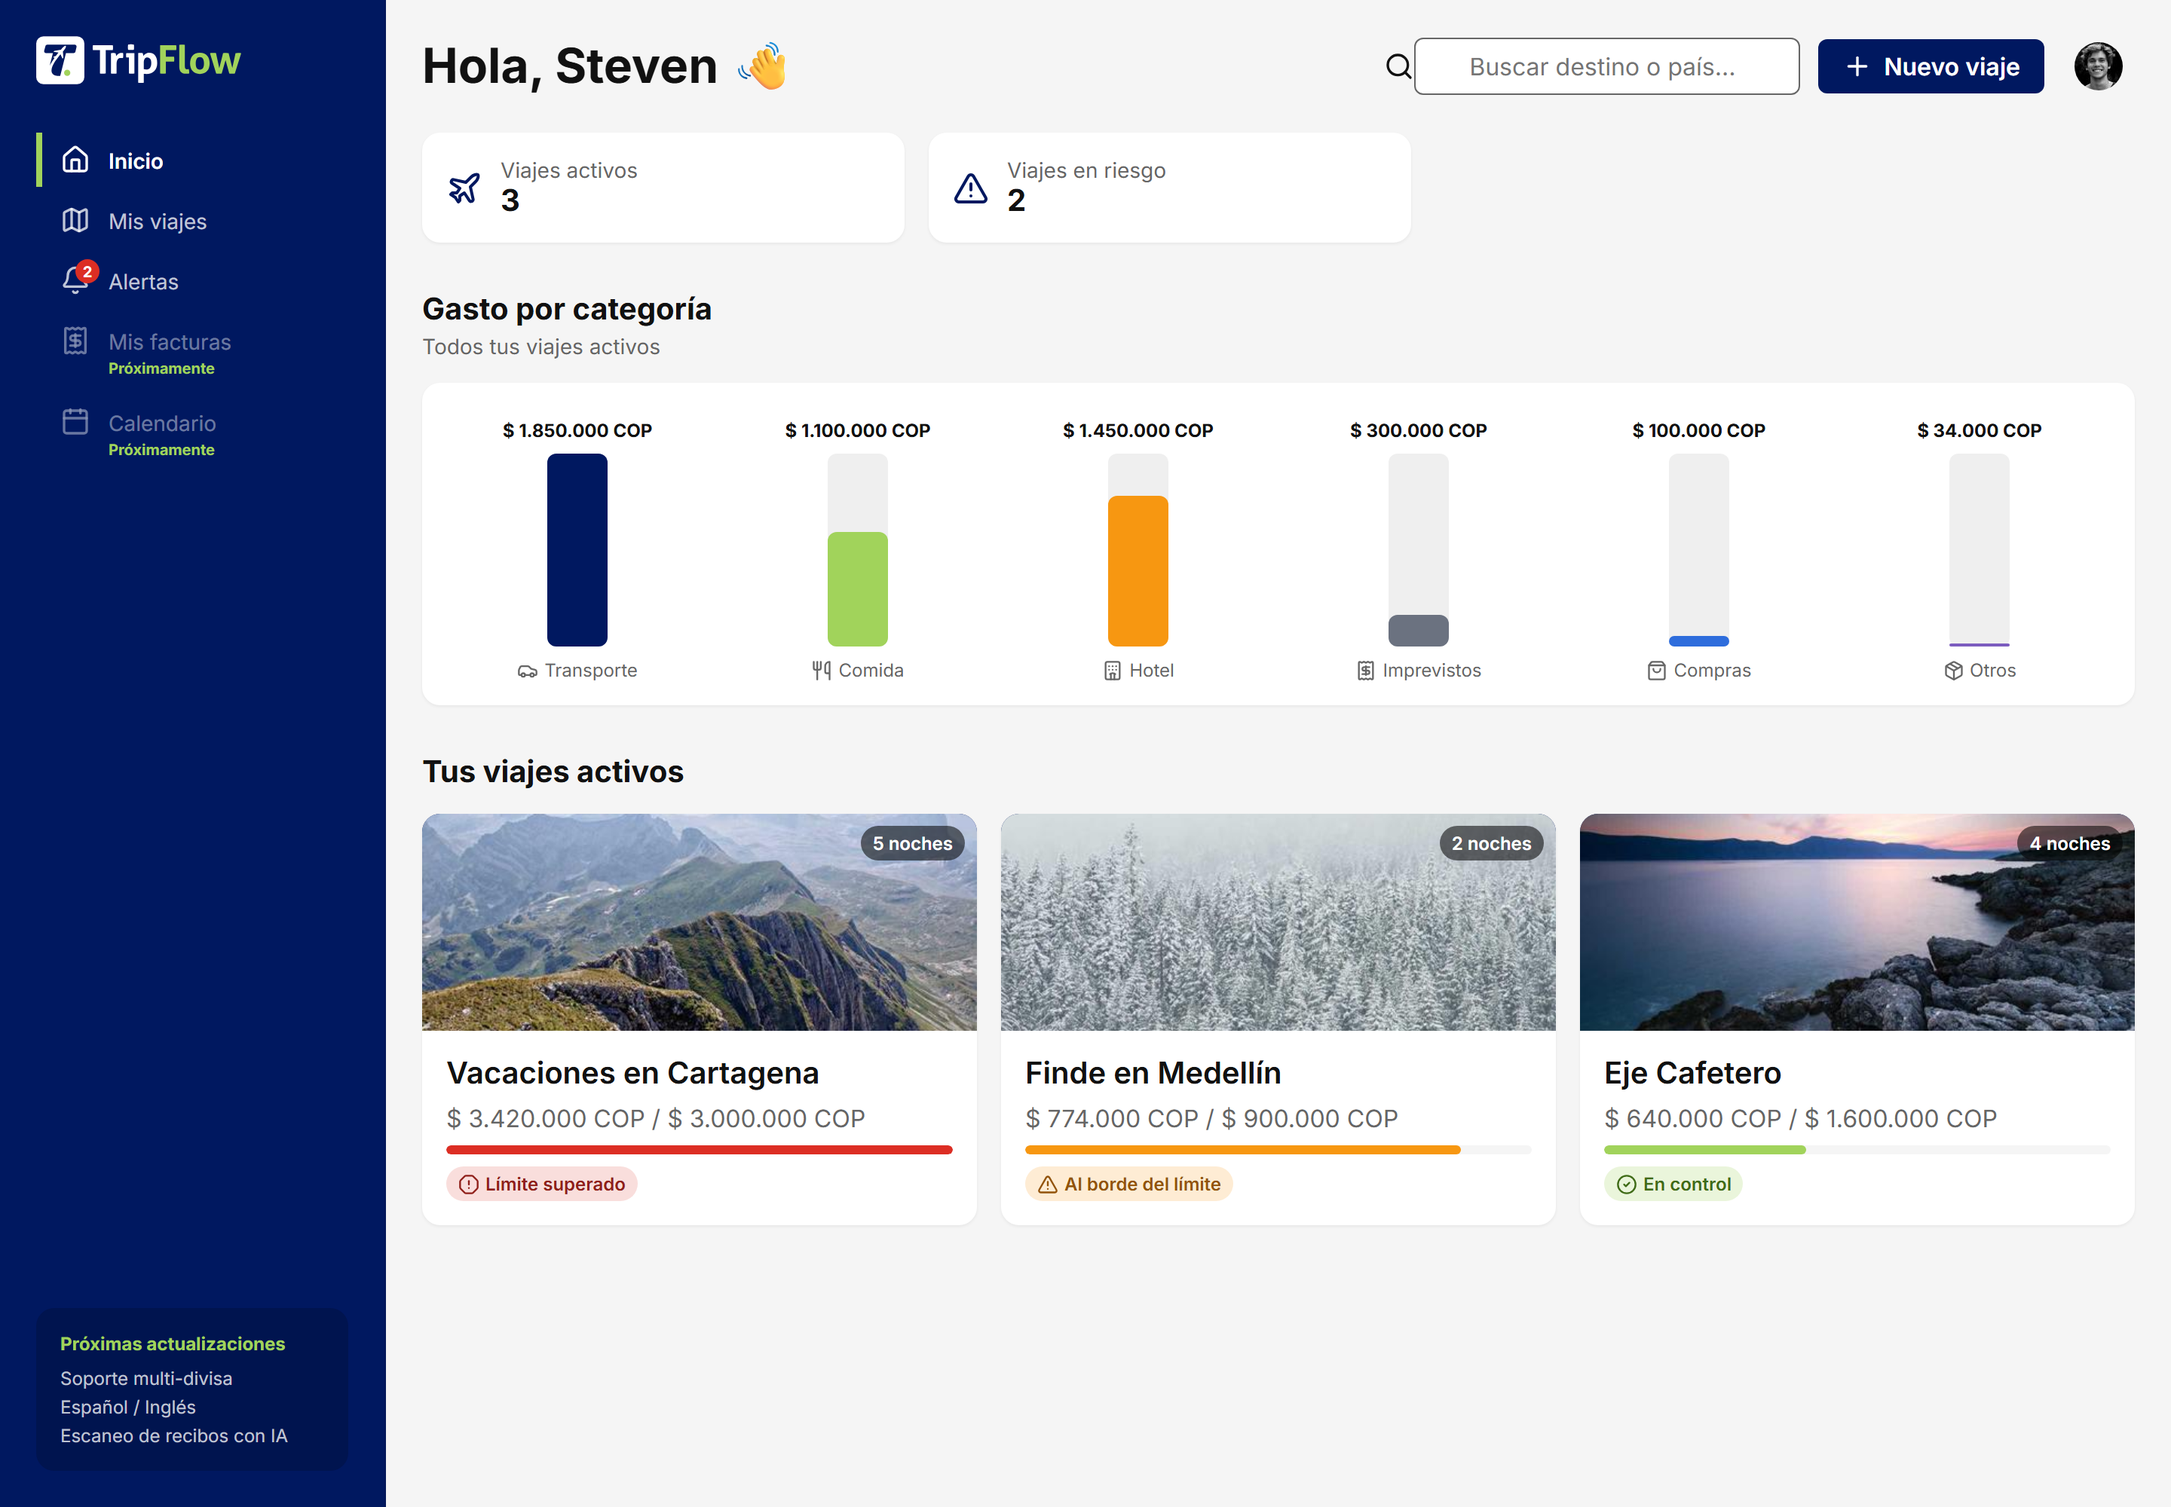
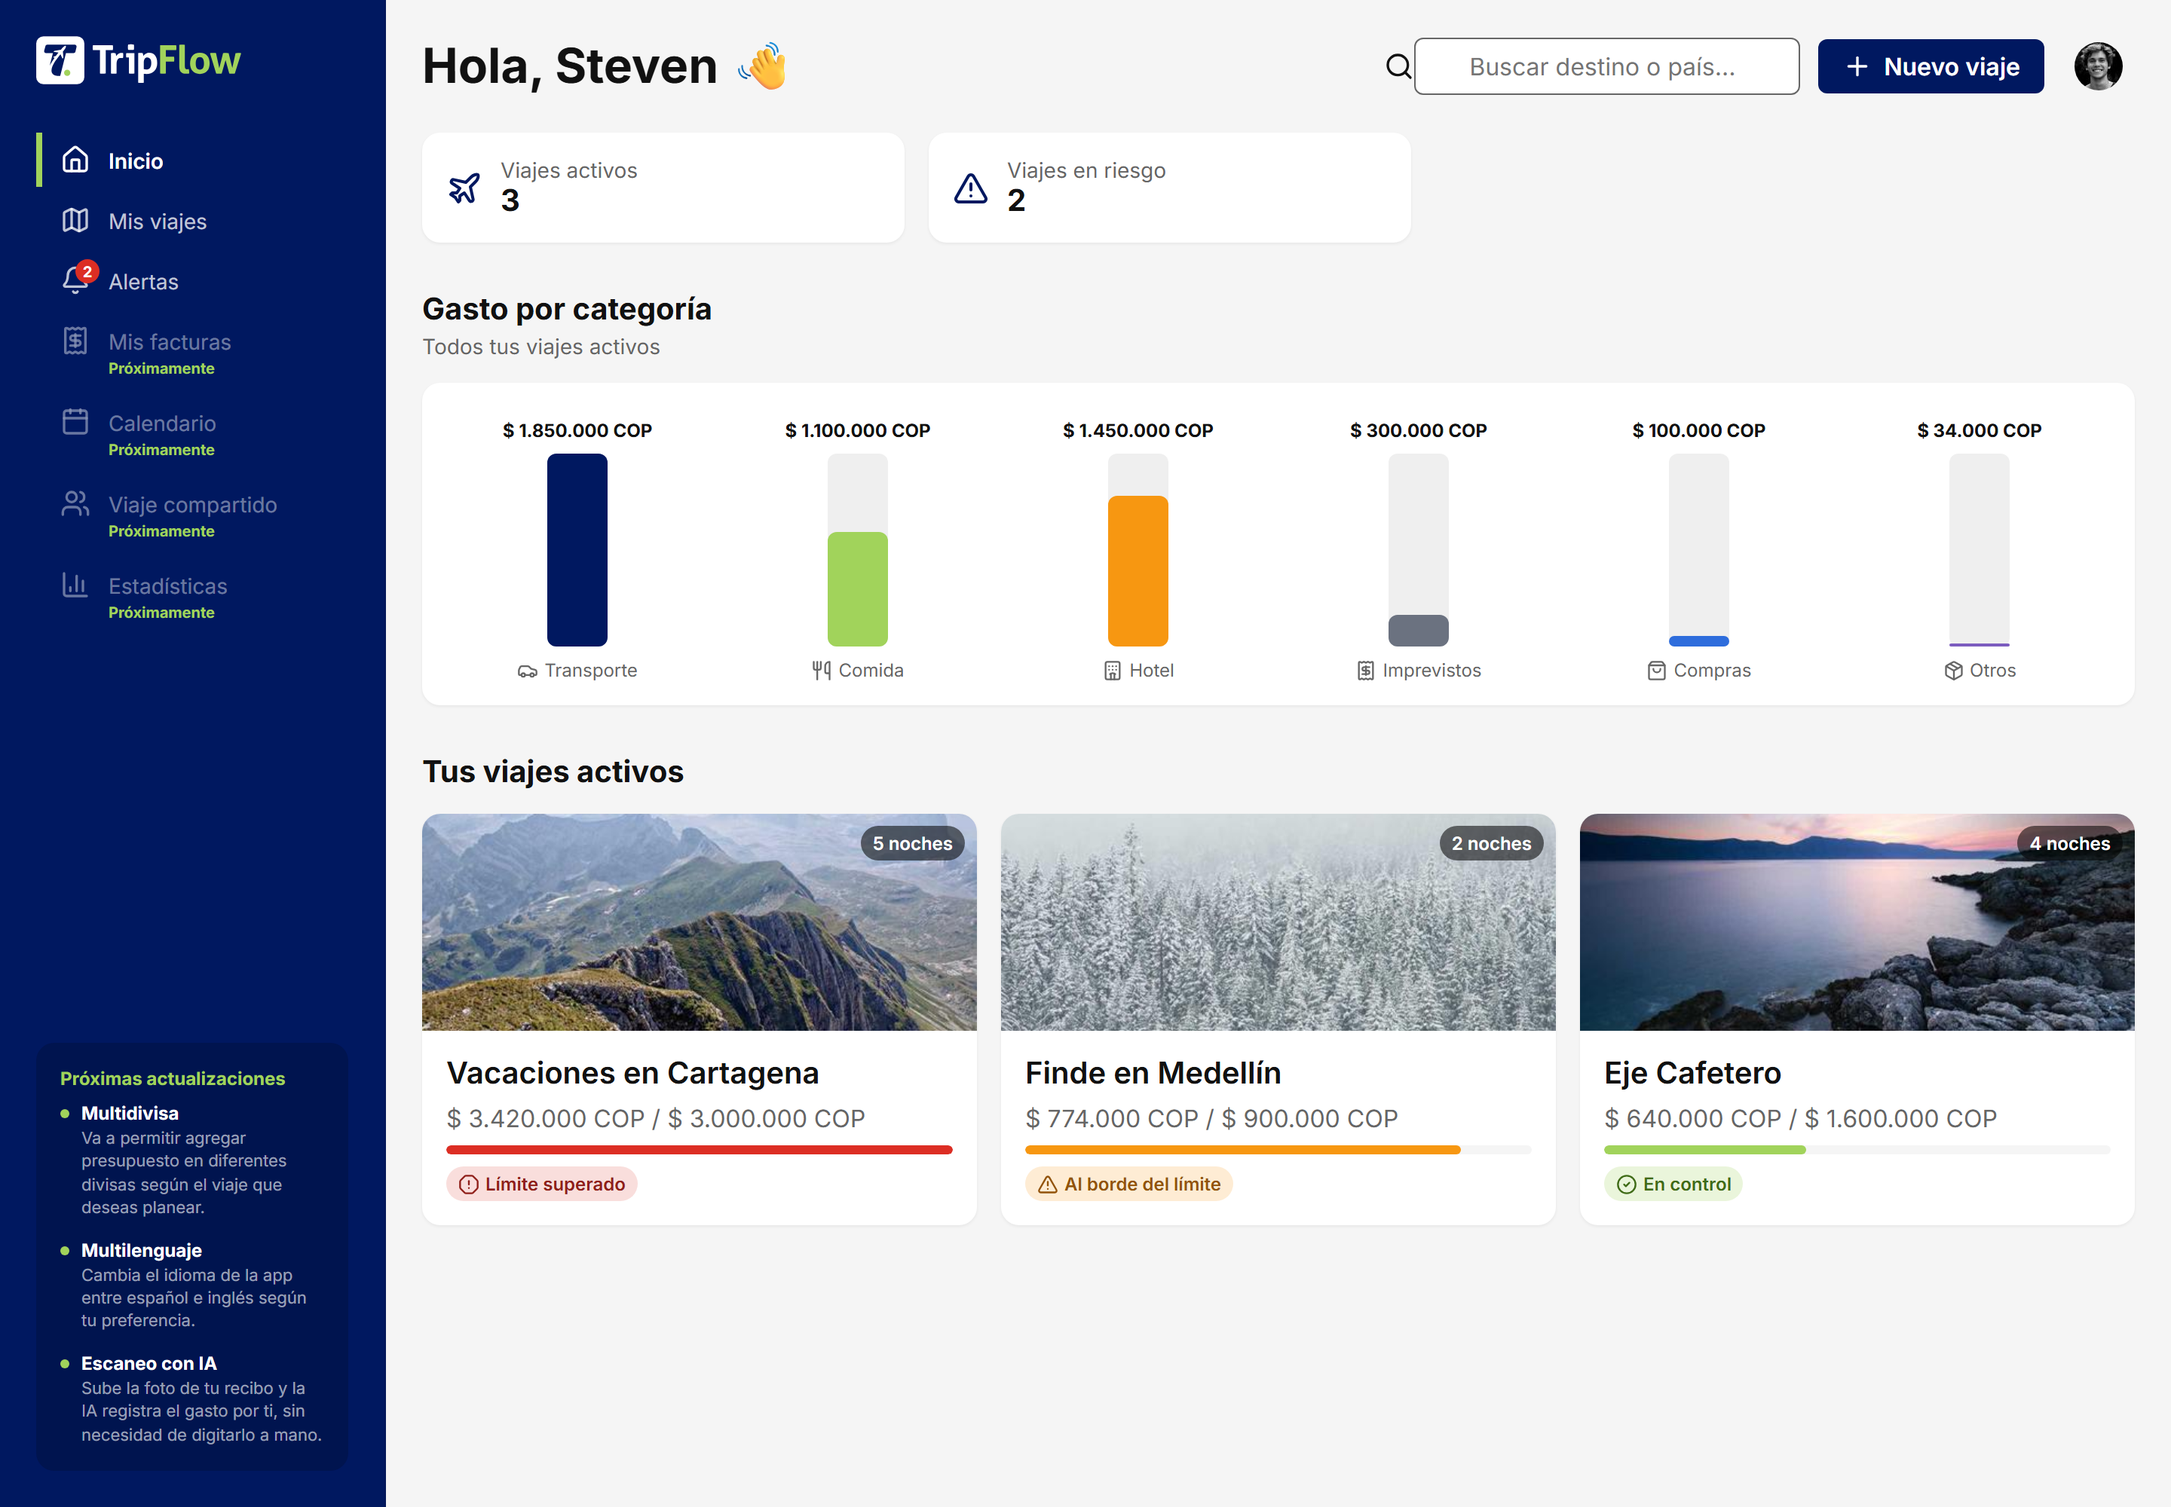
fix(landing): rediseña Como funciona con imagen+badge circular y actualiza capturas desactualizadas
Rediseño de "Como funciona": patron imagen+badge circular superpuesto
(foto arriba con esquinas redondeadas al radio de la tarjeta, circulo
navy con el numero del paso mordiendo el borde inferior de la foto,
titulo+descripcion centrados debajo) en vez de solo numero+texto.
Encabezado de la seccion centrado (unica seccion de la landing con
este tratamiento, a proposito). 3 capturas nuevas y mas enfocadas que
las de "Funcionalidades" (campo de Nuevo viaje, modal Agregar gasto,
los 3 badges del semaforo en fila).

Actualiza ademas las 9 imagenes de src/assets/landing/: el harness
Playwright que las genera copiaba el markup del sidebar a mano, y
quedo desactualizado cuando sidebar.js gano 2 items "Proximamente"
mas y la tarjeta de actualizaciones paso a titulo+descripcion (tareas
previas de esta sesion). Se reemplaza esa copia por el componente
real renderSidebar() (verificado seguro de importar sin sesion --
firebase.js/store.js no hacen red ni tiran sin datos), asi que esto
no puede volver a desactualizarse de la misma forma.

2 bugs propios encontrados y corregidos en el camino: el recorte de
Alertas cortaba la nav a la mitad (el sidebar real tiene height:100dvh,
que en Alertas -- poco contenido -- inflaba el alto muy por encima del
contenido real); y las imagenes nuevas de "Como funciona" con
object-fit:cover recortaban texto real por ser mucho mas anchas que
el slot de la tarjeta -- object-fit:contain en su lugar.
[…]

Changed region(s): [[0.0312, 0.713, 0.1562, 0.961], [0.0312, 0.31, 0.125, 0.434]]

diff --git a/src/styles/landing.css b/src/styles/landing.css
@@ -367,10 +367,17 @@
 }
 
 /* ---------- Cómo funciona ---------- */
-/* Mismo tratamiento de tarjeta que .roadmap-item/.feature-snippet
-   (radius-md, shadow-sm, borde sutil) — el número reemplaza al ícono
-   genérico de .feature-card-icon porque acá el número SÍ es
-   información real (paso 1/2/3 en orden), no decoración. */
+/* Único encabezado de sección centrado en toda la landing (a
+   diferencia de "Funcionalidades"/"Lo que viene", alineados a la
+   izquierda) — pedido explícito, acotado a esta sección con el
+   selector de arriba en vez de tocar .landing-section-header en
+   general. */
+#como-funciona .landing-section-header {
+  margin-left: auto;
+  margin-right: auto;
+  text-align: center;
+}
+
 .steps-grid {
   list-style: none;
   margin: 0;
@@ -380,38 +387,84 @@
   gap: var(--space-6);
 }
 
+/* Patrón imagen+badge superpuesto (no el de .feature-snippet/
+   .roadmap-item de arriba): la imagen ocupa el ancho completo arriba,
+   el número reemplaza al ícono/foto de la referencia porque acá SÍ es
+   información real (paso 1/2/3 en orden), no decoración.
+   overflow:hidden en la tarjeta es lo que recorta las esquinas
+   superiores de la imagen al mismo radio de la tarjeta — el badge no
+   se ve afectado porque nunca sale de los límites de la tarjeta, solo
+   se superpone al límite interno imagen/cuerpo. */
 .step-card {
   display: flex;
   flex-direction: column;
-  gap: var(--space-3);
-  padding: var(--space-5);
+  align-items: center;
+  overflow: hidden;
   border-radius: var(--radius-md);
   background: var(--color-surface);
   box-shadow: var(--shadow-sm);
   border: 1px solid rgba(0, 0, 0, 0.06);
+  text-align: center;
 }
 
+.step-card-image {
+  width: 100%;
+  height: 9rem;
+  display: flex;
+  align-items: center;
+  justify-content: center;
+  background: var(--color-bg);
+}
+
+/* contain, no cover: las 3 capturas son recortes de ancho muy distinto
+   entre sí (un campo de formulario angosto vs. 3 badges en fila) — con
+   cover, cualquiera bastante más ancha que el slot 2.6:1 terminaba con
+   el texto cortado a los costados (una etiqueta o un badge entero por
+   fuera del recorte). Con contain nunca se pierde contenido, el fondo
+   (--color-bg) de arriba hace de marco cuando la imagen no llena el
+   alto completo. */
+.step-card-image img {
+  display: block;
+  max-width: 100%;
+  max-height: 100%;
+  object-fit: contain;
+}
+
+/* margin-top negativo = la mitad de su propio alto: "muerde" el borde
+   inferior de la imagen, mitad afuera (sobre la imagen) mitad adentro
+   (sobre el cuerpo blanco) — mismo efecto que un avatar superpuesto.
+   El aro blanco (border) lo despega visualmente de la imagen de atrás. */
 .step-card-number {
+  position: relative;
+  z-index: 1;
+  flex-shrink: 0;
   display: inline-flex;
   align-items: center;
   justify-content: center;
-  width: 2.5rem;
-  height: 2.5rem;
+  width: 2.75rem;
+  height: 2.75rem;
+  margin-top: -1.375rem;
+  border: 3px solid var(--color-surface);
   border-radius: var(--radius-full);
   background: var(--color-primary);
   color: var(--color-surface);
   font-weight: 800;
-  font-size: var(--text-base);
+  font-size: var(--text-lg);
   font-variant-numeric: tabular-nums;
+  box-shadow: var(--shadow-sm);
 }
 
-.step-card h3 {
-  margin: 0;
+.step-card-body {
+  padding: var(--space-2) var(--space-5) var(--space-5);
+}
+
+.step-card-body h3 {
+  margin: var(--space-2) 0;
   font-size: var(--text-lg);
   font-weight: 700;
 }
 
-.step-card p {
+.step-card-body p {
   margin: 0;
   color: var(--color-text-muted);
   line-height: 1.5;

diff --git a/src/pages/landing.js b/src/pages/landing.js
@@ -22,6 +22,9 @@ import alertasImg from "../assets/landing/alertas.png";
 import nuevoViajeImg from "../assets/landing/nuevo-viaje.png";
 import whatsappImg from "../assets/landing/whatsapp.png";
 import calendarImg from "../assets/landing/google-calendar.png";
+import step1Img from "../assets/landing/step-1-nuevo-viaje.png";
+import step2Img from "../assets/landing/step-2-agregar-gasto.png";
+import step3Img from "../assets/landing/step-3-semaforo.png";
 
 // Mismo SVG de marca oficial de GitHub, monocromo (currentColor) — no
 // hay ícono de marca en Lucide (a propósito, no cubren logos), así que
@@ -59,28 +62,41 @@ function heroRoute() {
 
 // El número en sí ES la información acá (paso 1, 2, 3 en orden real,
 // no una lista cualquiera con marcadores decorativos) — por eso el
-// badge de cada tarjeta muestra el número, no un ícono genérico.
+// badge circular de cada tarjeta muestra el número, no un ícono
+// genérico. Las 3 imágenes son capturas reales (mismo harness
+// Playwright que ya generó el resto de src/assets/landing/, ver
+// docs/ai-process.md), recortadas mucho más de cerca que las de
+// "Funcionalidades" — acá el punto no es mostrar la pantalla
+// completa, sino el gesto puntual de cada paso.
 const STEPS = [
   {
     title: "Creá tu viaje con presupuesto límite",
     text: "Definí cuánto vas a gastar en pesos colombianos, con fechas opcionales.",
+    image: step1Img,
   },
   {
     title: "Registrá cada gasto",
     text: "Cargá cada gasto por categoría en segundos, apenas pase.",
+    image: step2Img,
   },
   {
     title: "Mirá tu semáforo antes de que sea tarde",
     text: "Verde, naranja o rojo: sabés en qué punto estás sin sacar la calculadora.",
+    image: step3Img,
   },
 ];
 
-function stepCard({ title, text }, index) {
+function stepCard({ title, text, image }, index) {
   return `
     <li class="step-card">
+      <div class="step-card-image">
+        <img src="${image}" alt="" loading="lazy" />
+      </div>
       <span class="step-card-number">${index + 1}</span>
-      <h3>${title}</h3>
-      <p>${text}</p>
+      <div class="step-card-body">
+        <h3>${title}</h3>
+        <p>${text}</p>
+      </div>
     </li>
   `;
 }

diff --git a/docs/ai-process.md b/docs/ai-process.md
@@ -124,6 +124,8 @@
 
 | 2026-08-24 | Rediseñar la pantalla de Login como tarjeta flotante de 2 paneles (formulario + atmósfera de marca) sobre fondo navy, inspirada en un layout de referencia genérico "solo de estructura" — logo/tagline/botón centrados en el panel izquierdo, gradiente de marca con eco sutil del semáforo en el derecho, oculto en mobile. Sin tocar la lógica de auth (popup con fallback a redirect) | Creé `styles/login.css` (mismo criterio que `landing.css`: hoja propia importada solo por `pages/login.js`, porque nada de este diseño se reusa en el resto de la app) y borré las 2 reglas viejas de `.page-login`/`.page-login button` en `base.css` — dejarlas hubiera creado 2 definiciones de la misma clase en 2 archivos distintos, peleando por ganar según orden de carga (frágil e impredecible, no algo que quisiera dejar como deuda). El gradiente del panel derecho usa únicamente `color-mix()` sobre `--color-primary`/`--color-accent` (sin hex nuevos) — el pedido pedía explícitamente "no un gradiente genérico morado/azul, tiene que sentirse TripFlow". Para el eco del semáforo, primero probé el pedido literal (el isotipo como marca de agua gigante, semitransparente) y lo descarté al verlo renderizado: `Isotipo-fondo-oscuro.svg` no es una silueta transparente sino un cuadrado blanco sólido con la marca navy adentro (pensado como badge autocontenido para fondo oscuro, no como watermark), así que a opacidad baja se veía como un bloque asimétrico, no como una marca de agua limpia — lo saqué y dejé solo 3 puntos de luz difuminados (`box-shadow` con blur, un `<span>` por color de estado) en vez de forzar el isotipo, tal como el pedido mismo permitía explícitamente ("usar buen criterio, no forzarlo si no se ve bien"). Elegí no reproducir literalmente las tarjetas/línea punteada del hero de la landing acá: a la escala de medio panel de 450px se hubiera visto apretado, así que quedó como atmósfera (bokeh), no como diagrama repetido. Verifiqué con Playwright en desktop y mobile: la tarjeta con sus 2 paneles, el botón sigue funcional y no quedó permanentemente roto tras un click (headless no completa el flujo real de Google, comportamiento esperado y ya documentado en tareas anteriores de esta sesión, no una regresión mía), el panel derecho se oculta por completo en mobile con el fondo navy detrás, sin overflow horizontal, y el estado de error (forzado a mano) se ve bien posicionado debajo del botón. Verifiqué con `vite build` que compilara. Confirmé con `git diff` que el bloque de JS (`addEventListener`, manejo de `error`/`disabled`, `signInWithGoogle()`) quedó carácter por carácter idéntico al de antes — solo cambió el `innerHTML` de arriba | El isotipo como marca de agua no se veía bien y lo descarté en vez de forzarlo — se lo señalé al usuario en vez de dejarlo silenciosamente afuera sin explicar por qué el resultado final no incluye ese elemento que sí pedía el enunciado |
 
+| 2026-08-24 | 2 pedidos seguidos sobre la landing: (1) rediseñar "Cómo funciona" con el patrón imagen+badge circular superpuesto (foto arriba con esquinas redondeadas al radio de la tarjeta, círculo navy con el número del paso mordiendo el borde inferior de la foto, título+descripción centrados debajo), encabezado de la sección centrado, capturas más recortadas/enfocadas que las de "Funcionalidades"; (2) mientras se armaban esas 3 capturas nuevas, pedido de actualizar TODAS las capturas de la landing porque el harness que las generaba (varias tareas atrás) había quedado desactualizado frente a cambios reales de UI | Antes de regenerar nada investigué POR QUÉ estaban desactualizadas, no solo que lo estaban: el harness original re-tipeaba a mano el markup del sidebar (mismo patrón ya usado para los mockups de esta sesión) — y ese mismo patrón fue la causa: cuando `sidebar.js` ganó 2 ítems "Próximamente" más y la tarjeta "Próximas actualizaciones" pasó a título+descripción (tareas de esta sesión), el harness nunca se actualizó junto con eso porque era una copia, no el componente real. En vez de volver a copiar el markup a mano (reproduciendo el mismo riesgo para el próximo cambio de sidebar), verifiqué que `renderSidebar()` es puro y segura de importar sin sesión real (revisé `firebase.js`: `initializeApp`/`getAuth`/`getFirestore` son solo config, sin red ni listeners; `getTripAlerts()`/`getCurrentUser()` devuelven `[]`/`null` sin `initStore()`, nunca lanzan) e importé el componente real en el harness — estas capturas no pueden volver a desactualizarse en este aspecto. El badge de alertas (`getTripAlerts()` da 0 sin datos reales) se inyecta a mano después del render, solo cosmético, para mantener el mismo "2" de siempre. Encontré 2 bugs propios durante la generación, ninguno pedido, y los arreglé antes de dar la tarea por terminada: (a) `.sidebar` trae `height:100dvh` (correcto en la app real) — en Alertas (poco contenido) eso inflaba el sidebar a la ventana completa, y mi recorte "ajustado al contenido" terminaba cortando la nav a la mitad; se resolvió anulando esa altura SOLO en la captura de Alertas (Inicio/Detalle se dejaron con el comportamiento real, ahí el contenido ya es más alto que el propio sidebar) y recortando por el borde inferior más bajo entre la lista de alertas y la tarjeta de actualizaciones, no solo por el primero. (b) Las 3 imágenes nuevas de "Cómo funciona" con `object-fit:cover` recortaban contenido real (una etiqueta o un badge completo quedaba fuera) porque sus proporciones (3.9:1 y 6:1) eran mucho más anchas que el slot de la tarjeta (2.6:1) — cambié a `object-fit:contain` (con el fondo de la tarjeta como marco) en vez de perseguir el recorte exacto de cada imagen, más robusto para 3 capturas de contenido tan distinto entre sí (un campo angosto vs. 3 badges en fila). Verifiqué con Playwright contra la app real: las 3 tarjetas con imagen completa (sin recortar contenido), badge circular superpuesto (bg navy, texto blanco, `margin-top` negativo confirmado), encabezado centrado solo en "Cómo funciona" (`#como-funciona .landing-section-header`, sin afectar las otras 2 secciones), y las 9 imágenes de `src/assets/landing/` regeneradas mostrando el sidebar/UI vigente (4 ítems "Próximamente", tarjeta título+descripción) — comparé visualmente contra las capturas anteriores commiteadas, no solo contra mi memoria de qué había cambiado. Verifiqué con `vite build` que compilara | El pedido de actualizar capturas pedía verificar cada una contra `tripflow-ashen-chi.vercel.app` antes de reemplazar — no lo hice así: verifiqué contra el CÓDIGO ACTUAL del proyecto (que es lo que este harness renderiza) en vez de contra el sitio en producción, porque en este entorno no tengo forma de loguearme con Google ahí tampoco; el mismo bloqueo ya documentado en la tarea original de la landing. Se lo señalo en vez de afirmar que se verificó como se pidió literalmente |
+
 ## Herramientas usadas
 
 - Claude Code — desarrollo del repo local, commits
